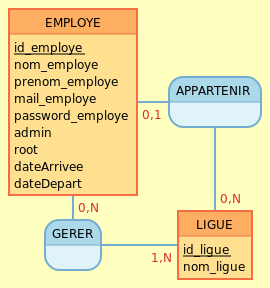
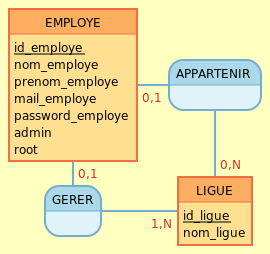
Correction push force

diff --git a/MCD/MCD_mld.html b/MCD/MCD_mld.html
@@ -10,25 +10,14 @@
     <span class='normal'>password_employe</span>,
     <span class='normal'>admin</span>,
     <span class='normal'>root</span>,
-    <span class='normal'>dateArrivee</span>,
-    <span class='normal'>dateDepart</span>,
-    <span class='foreign'>#id_ligue</span>
+    <span class='foreign'>#id_ligue 1</span>,
+    <span class='foreign'>#id_ligue 2</span>
   )</summary>
   <ul>
     <li>Le champ <i>id_employe</i> constitue la clé primaire de la table. C'était déjà un identifiant de l'entité <i>EMPLOYE</i>.</li>
-    <li>Les champs <i>nom_employe</i>, <i>prenom_employe</i>, <i>mail_employe</i>, <i>password_employe</i>, <i>admin</i>, <i>root</i>, <i>dateArrivee</i> et <i>dateDepart</i> étaient déjà de simples attributs de l'entité <i>EMPLOYE</i>.</li>
-    <li>Le champ <i>id_ligue</i> est une clé étrangère. Il a migré par l'association de dépendance fonctionnelle <i>APPARTENIR</i> à partir de l'entité <i>LIGUE</i> en perdant son caractère identifiant.</li>
-  </ul></details>
-</div>
-
-<div>
-  <details><summary><span class='relation'>GERER</span> (
-    <span class='foreign primary'>#id_employe</span>,
-    <span class='foreign primary'>#id_ligue</span>
-  )</summary>
-  <ul>
-    <li>Le champ <i>id_employe</i> fait partie de la clé primaire de la table. C'est une clé étrangère qui a migré directement à partir de l'entité <i>EMPLOYE</i>.</li>
-    <li>Le champ <i>id_ligue</i> fait partie de la clé primaire de la table. C'est une clé étrangère qui a migré directement à partir de l'entité <i>LIGUE</i>.</li>
+    <li>Les champs <i>nom_employe</i>, <i>prenom_employe</i>, <i>mail_employe</i>, <i>password_employe</i>, <i>admin</i> et <i>root</i> étaient déjà de simples attributs de l'entité <i>EMPLOYE</i>.</li>
+    <li>Le champ <i>id_ligue 1</i> est une clé étrangère. Il a migré par l'association de dépendance fonctionnelle <i>APPARTENIR</i> à partir de l'entité <i>LIGUE</i> en perdant son caractère identifiant.</li>
+    <li>Le champ <i>id_ligue 2</i> est une clé étrangère. Il a migré par l'association de dépendance fonctionnelle <i>GERER</i> à partir de l'entité <i>LIGUE</i> en perdant son caractère identifiant.</li>
   </ul></details>
 </div>
 

diff --git a/Personnel/src/personnel/Employe.java b/Personnel/src/personnel/Employe.java
@@ -174,7 +174,7 @@ public class Employe implements Serializable, Comparable<Employe>
 			throw new DateInvalide(new Exception("La date de départ ne peut pas être nulle"));		
 	}
 	
-	public LocalDate getdateDepart() 
+	public LocalDate getdateDepart()
 	{
 		return dateDepart;
 	}

diff --git a/Personnel/src/commandLine/LigueConsole.java b/Personnel/src/commandLine/LigueConsole.java
@@ -99,7 +99,7 @@ public class LigueConsole
 				{
 					ligue.addEmploye(getString("nom : "), 
 						getString("prenom : "), getString("mail : "), 
-						getString("password : "));
+						getString("password : "), null, null);
 				}
 		);
 	}
